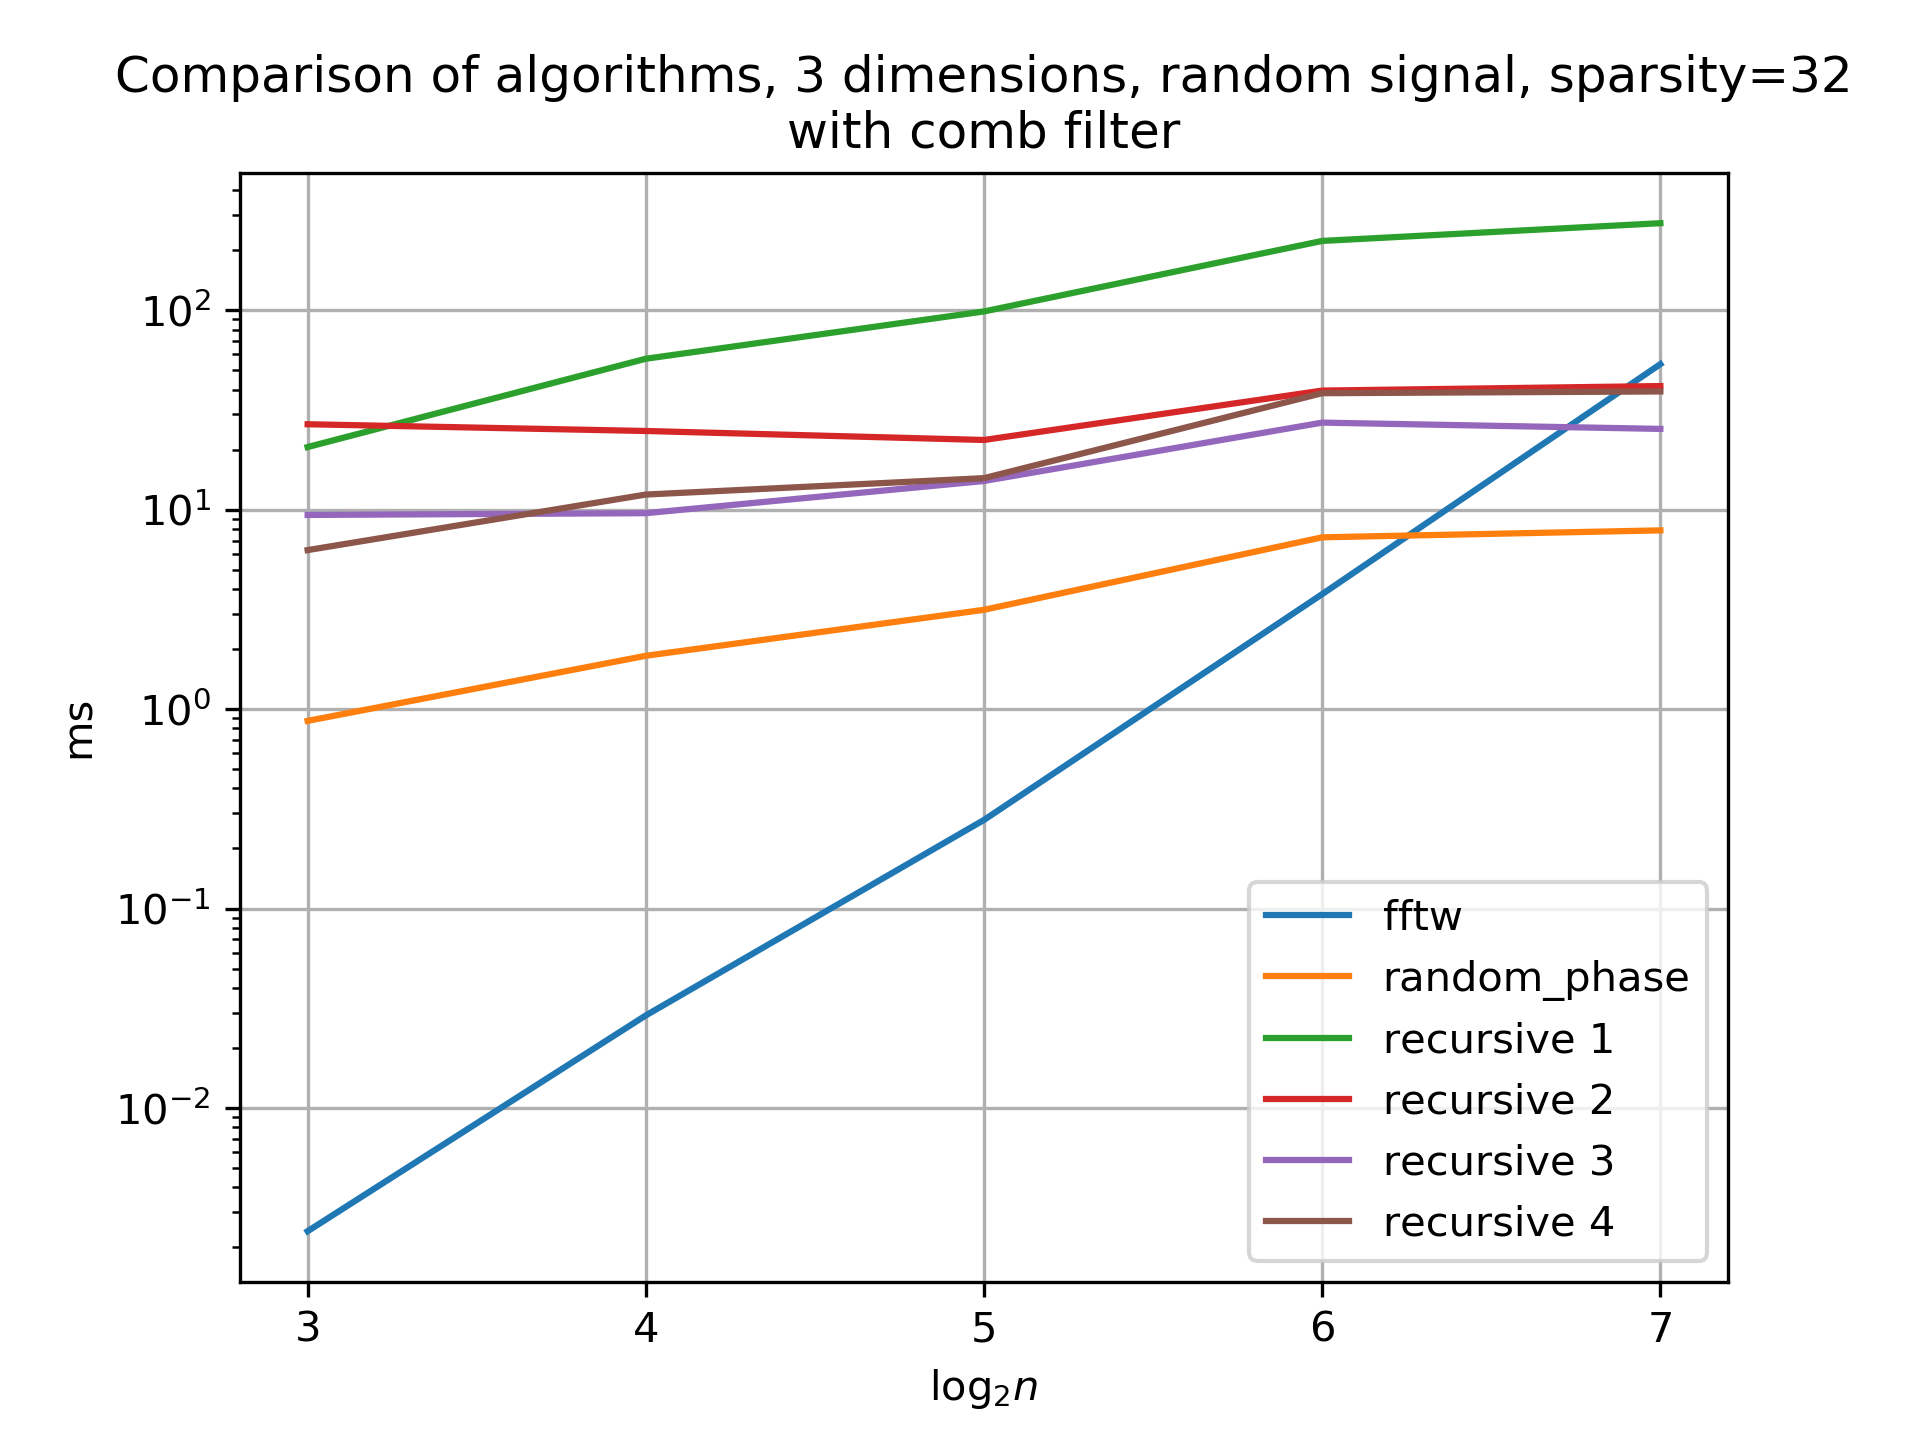
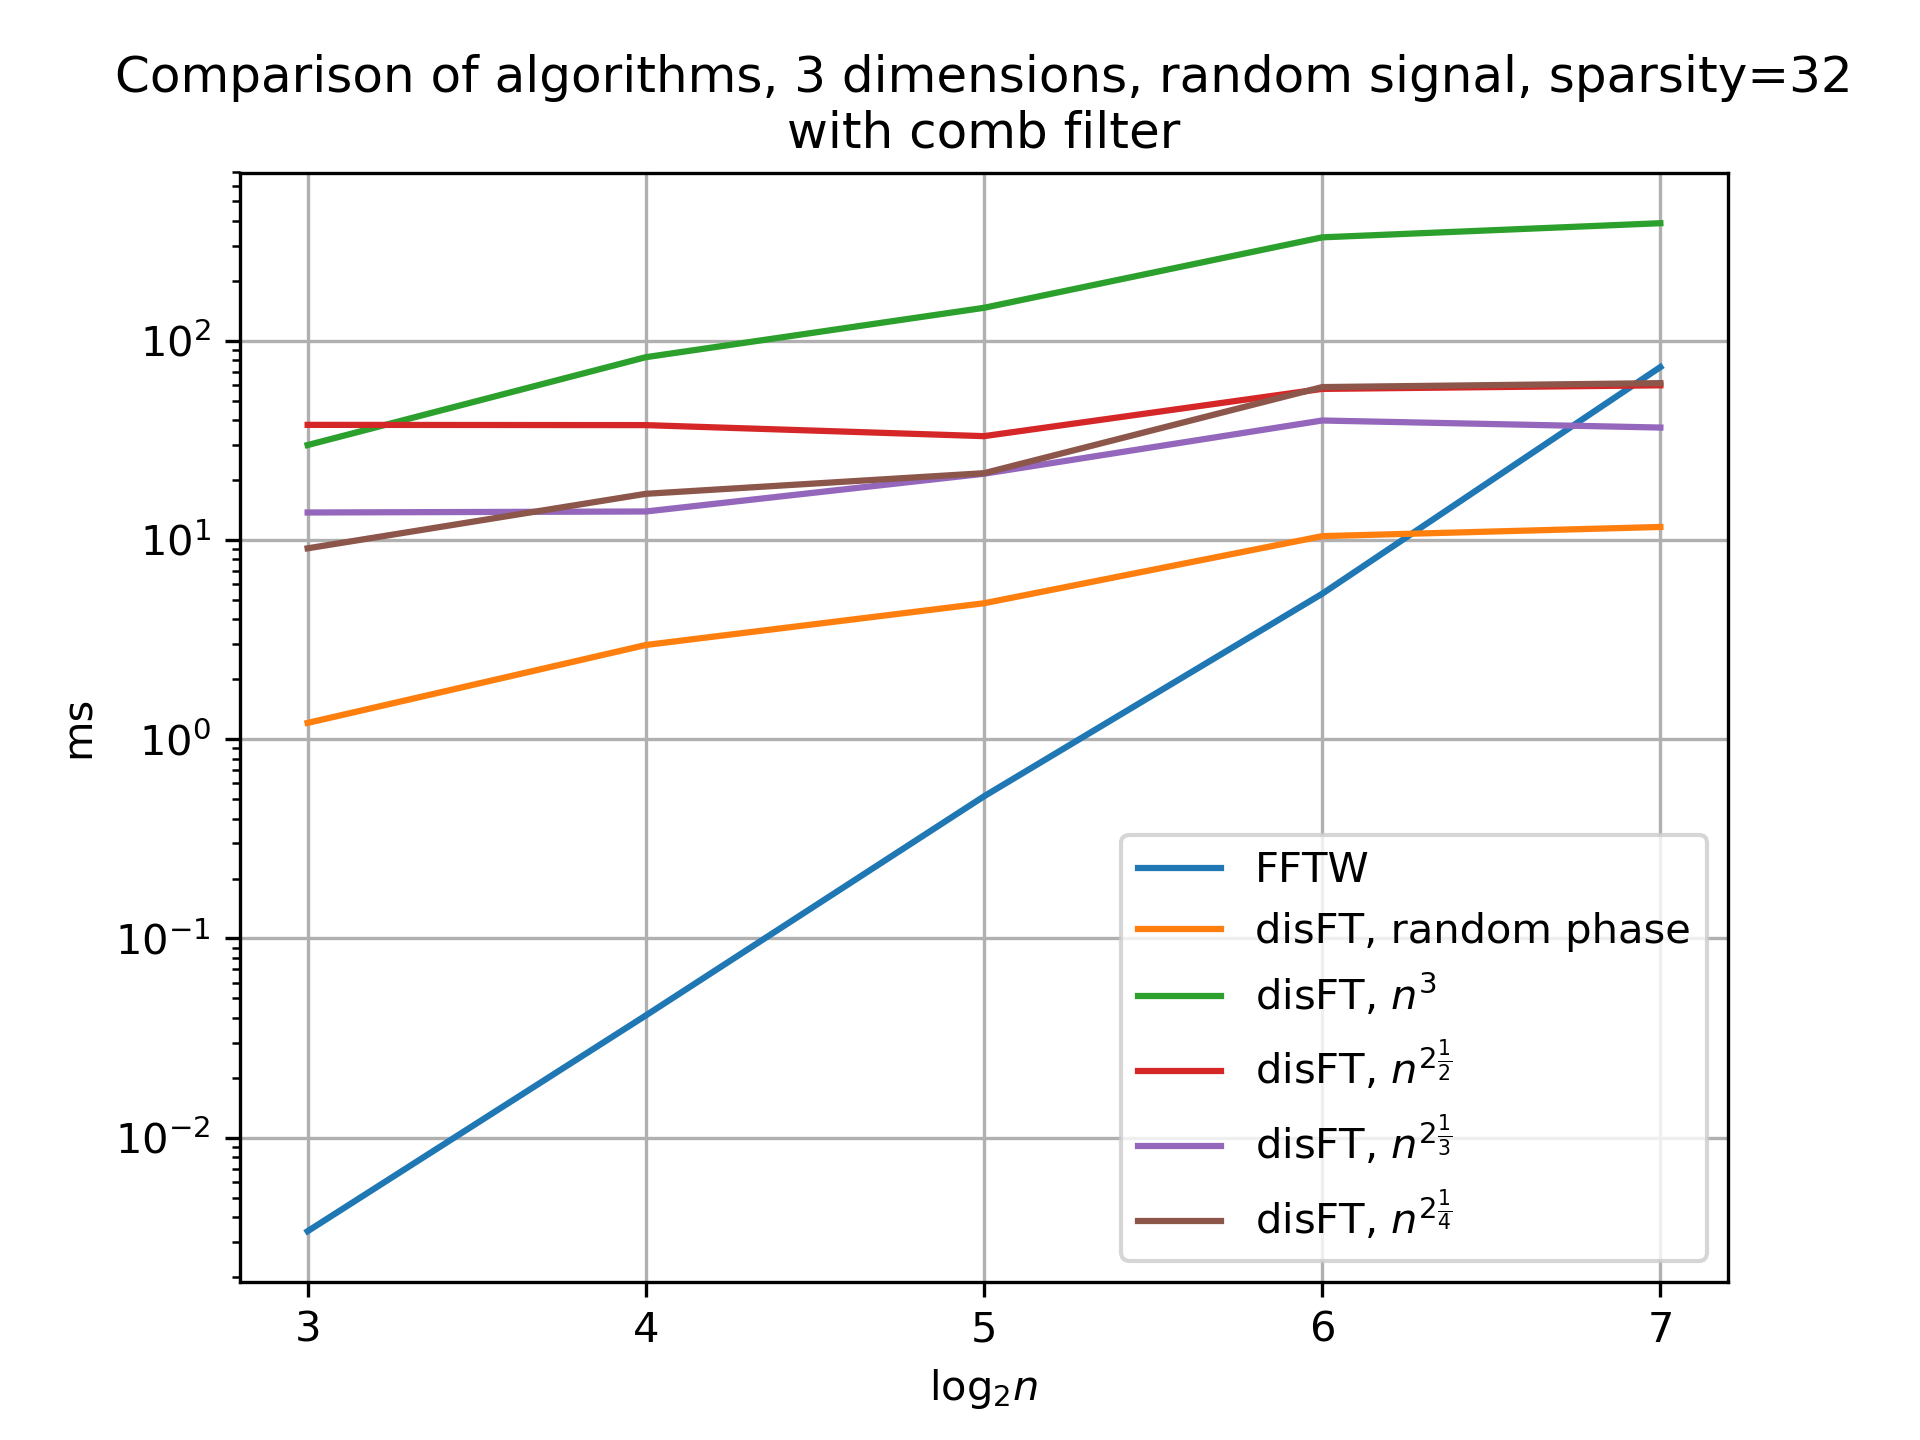
modified legend

diff --git a/run_experiment.py b/run_experiment.py
@@ -22,6 +22,15 @@ alg_settings = {
     'random_phase' : {'use_comb' : args.use_comb_filter, 'assume_random_phase' : 1}
 }
 
+plot_names = {
+    'fftw': 'FFTW',
+    'recursive 1' : r'disFT, $n^{3}$',
+    'recursive 2' : r'disFT, $n^{2\frac{1}{2}}$',
+    'recursive 3' : r'disFT, $n^{2\frac{1}{3}}$',
+    'recursive 4' : r'disFT, $n^{2\frac{1}{4}}$',
+    'random_phase' : r'disFT, random phase'
+}
+
 proc = subprocess.Popen(args.path, stdin=subprocess.PIPE, stdout=subprocess.PIPE, stderr=subprocess.PIPE, encoding='ascii')
 output = io.StringIO()
 
@@ -70,4 +79,4 @@ if not args.no_graph:
     title = 'Comparison of algorithms, {} dimensions, {} signal, sparsity={}\n{} comb filter'.format(
         args.dimensions, args.signal_type, args.sparsity, 'with' if args.use_comb_filter else 'without'
     )
-    experiment_utils.make_graph(args.output, title, p, algs, results, args.extra_data)
+    experiment_utils.make_graph(args.output, title, p, algs, plot_names, results, args.extra_data)

diff --git a/experiment_utils.py b/experiment_utils.py
@@ -2,13 +2,13 @@ import argparse
 import matplotlib.pyplot as plt
 import numpy as np
 
-def make_graph(name, title, p, algs, data, extra_data_path=''):
+def make_graph(name, title, p, algs, algs_names, data, extra_data_path=''):
     ax = plt.axes()
     ax.set_xticks(p)
     milsec = 1e6
 
     for alg in algs:
-        plt.plot(p, np.array(data[alg]) / milsec, label=alg)
+        plt.plot(p, np.array(data[alg]) / milsec, label=algs_names[alg])
 
     if extra_data_path:
         with open(extra_data_path, 'r') as f:
